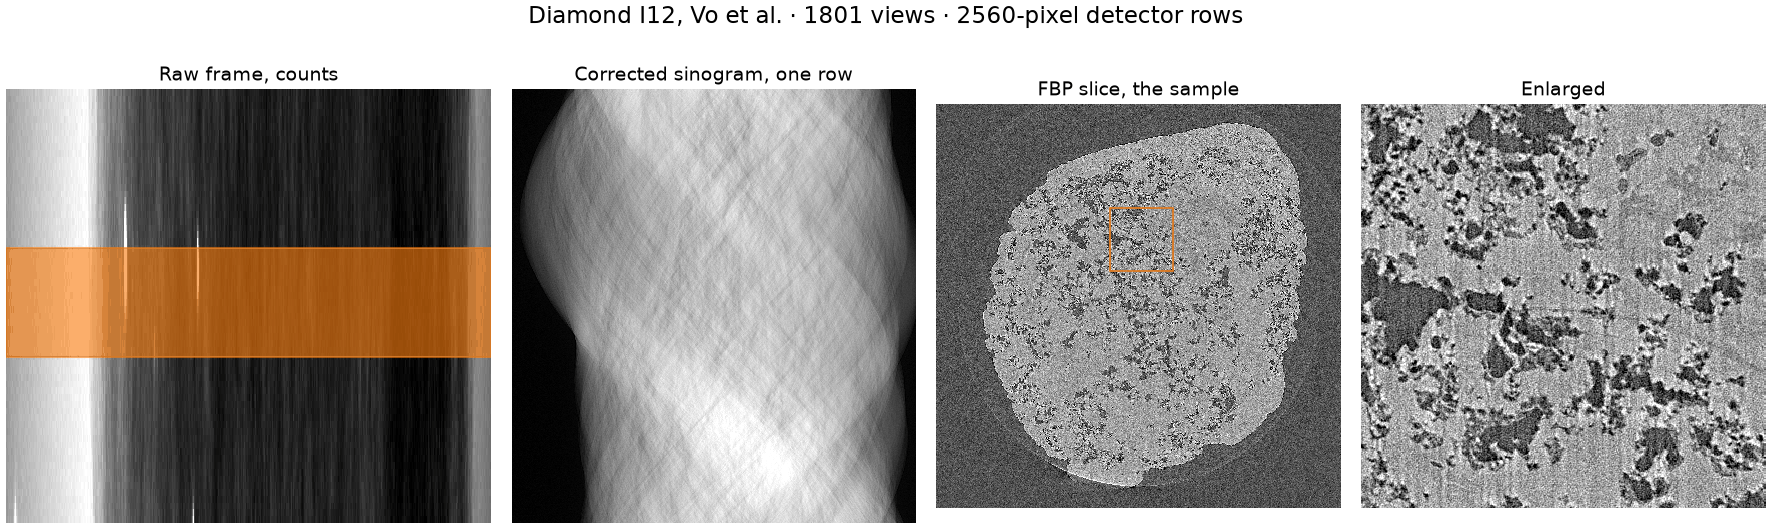
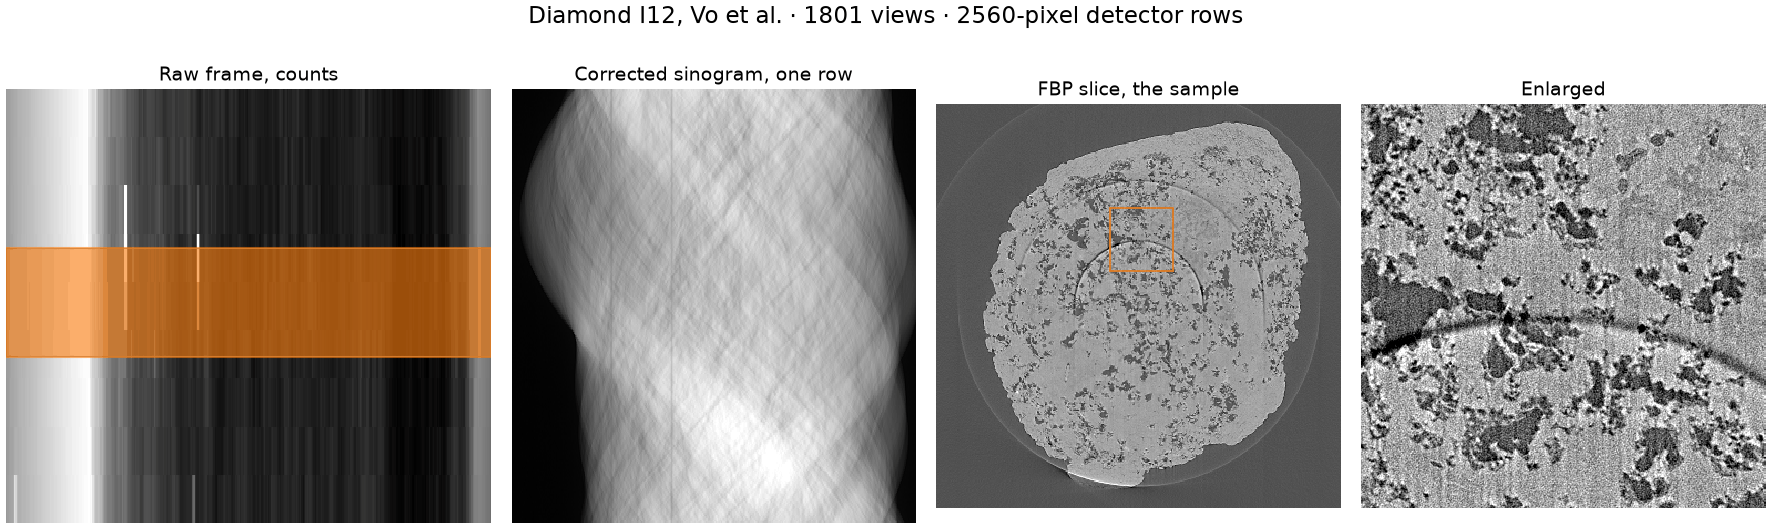
Regenerate the I12 and beamline figures with Rings and averaged panels
Gallery panels drawn smaller than their pixel count now average blocks
of pixels instead of keeping every n-th one, which kept per-pixel noise
and made full slices look grainy. The diamond-rings, i12-first-slice and
beamline-first-slices figures are regenerated with Rings(); the I12 and
denoiser examples measure the center with tj.align(scan, fit="center").
The gallery caption gives the new correlations and says the large half
ring from one detector column remains, fainter.

Changed region(s): [[0.528, 0.1815, 1.0, 0.9679]]

diff --git a/examples/gallery/diamond_rings.py b/examples/gallery/diamond_rings.py
@@ -4,7 +4,7 @@ Diamond I12 (Vo et al., Zenodo 3339629): 1801 parallel-beam views of a rock
 sample at 54 keV, full-resolution detector rows. A miscalibrated detector
 column whose response varies with intensity leaves a large ring, and pixels
 near the rotation axis with small constant offsets leave tight rings round it.
-``Rings()`` fits both detector errors. The authors' own
+``Rings()`` removes the tight rings and leaves the large one fainter. The authors' own
 reconstruction (Savu) is shown at the same slice, with each slice's
 correlation with it inside the sample.
 
@@ -19,7 +19,7 @@ from __future__ import annotations
 import argparse
 from pathlib import Path
 
-from _common import save, style
+from _common import save, shrunk, style
 import matplotlib.pyplot as plt
 import numpy as np
 import tifffile
@@ -37,7 +37,7 @@ def main() -> None:
     args = parser.parse_args()
 
     frames = tj.load_frames(args.raw)
-    plain = tj.align(frames.corrected(), method="opposite-views").scan
+    plain = tj.align(frames.corrected(), fit="center").scan
     cleaned = plain.corrected(Rings())
     reference = tifffile.imread(args.reference).astype(np.float32)
     n = reference.shape[0]
@@ -63,7 +63,9 @@ def main() -> None:
     fig, axes = plt.subplots(2, 3, figsize=(9.0, 6.5), gridspec_kw={"height_ratios": (1, 1)})
     for (title, image), (top_ax, bottom_ax) in zip(slices.items(), axes.T, strict=True):
         low, high = np.percentile(image[zoom], (1, 99.5))
-        top_ax.imshow(image, origin="lower", vmin=low, vmax=high)
+        top_ax.imshow(
+            shrunk(image, 400), origin="lower", vmin=low, vmax=high, extent=(-0.5, n - 0.5) * 2
+        )
         top_ax.add_patch(
             plt.Rectangle(
                 (zoom[0].start, zoom[1].start),
@@ -80,7 +82,7 @@ def main() -> None:
             ax.set_axis_off()
     fig.suptitle(
         f"Diamond I12, raw counts to slice: {frames.counts.shape[0]} views, "
-        f"{n} x {n} pixels, center found by tj.align(method='opposite-views')",
+        f"{n} x {n} pixels, center measured by tj.align(scan, fit='center')",
         y=0.995,
     )
     fig.tight_layout()

diff --git a/examples/gallery/_common.py b/examples/gallery/_common.py
@@ -70,9 +70,36 @@ def style() -> None:
     )
 
 
-def panel(ax: Any, image: np.ndarray, title: str, vmin: float, vmax: float) -> None:
-    """Show a slice ``image`` (rows, columns) without axes."""
-    ax.imshow(np.asarray(image), origin="lower", vmin=vmin, vmax=vmax)
+def shrunk(image: np.ndarray, pixels: int) -> np.ndarray:
+    """Average ``image`` over square blocks so that it is at most ``pixels`` across.
+
+    A slice drawn smaller than its pixel count must be averaged, not decimated:
+    keeping every n-th pixel keeps the per-pixel noise at a fraction of the size.
+    The last rows and columns that do not fill a block are dropped.
+    """
+    image = np.asarray(image, np.float32)
+    k = -(-max(image.shape) // pixels)
+    if k == 1:
+        return image
+    rows, columns = (side // k * k for side in image.shape)
+    return image[:rows, :columns].reshape(rows // k, k, columns // k, k).mean(axis=(1, 3))
+
+
+def panel(
+    ax: Any, image: np.ndarray, title: str, vmin: float, vmax: float, *, pixels: int = 400
+) -> None:
+    """Show a slice ``image`` (rows, columns) without axes, averaged to ``pixels`` across.
+
+    Axis coordinates stay in the pixels of ``image``, so overlays need no scaling.
+    """
+    rows, columns = np.shape(image)
+    ax.imshow(
+        shrunk(image, pixels),
+        origin="lower",
+        vmin=vmin,
+        vmax=vmax,
+        extent=(-0.5, columns - 0.5, -0.5, rows - 0.5),
+    )
     ax.set_title(title)
     ax.set_axis_off()
 

diff --git a/examples/gallery/first_slice.py b/examples/gallery/first_slice.py
@@ -9,7 +9,7 @@ The script follows the quickstart on an NXtomo file of raw counts with its
 flats and darks: ``tj.load_frames``, a crop to 16 detector rows,
 ``corrected(Rings())`` for the rings, then FBP.
 The rotation center is the recorded one given by ``--center`` (in pixels),
-or without it ``tj.align(method="opposite-views")`` finds it.
+or without it ``tj.align(scan, fit="center")`` measures it.
 The figure shows one raw frame with the cropped rows marked, the corrected
 sinogram of the middle row and its slice at the detector's resolution, with
 one enlarged region. Diamond I13 scan 159815 is 3001 views over a full turn
@@ -61,7 +61,7 @@ def main() -> None:
     raw = np.asarray(frames.selected([0]).counts, np.float32)[0]
     scan = frames.cropped(rows, slice(None)).corrected(Rings())
     if args.center is None:
-        scan = tj.align(scan, method="opposite-views").scan
+        scan = tj.align(scan, fit="center").scan
     print("detector center:", scan.detector.center)
     middle = (rows.stop - rows.start) // 2
     sinogram = np.asarray(scan.projections, np.float32)[:, middle]

diff --git a/examples/gallery/geometry_montage.py b/examples/gallery/geometry_montage.py
@@ -25,7 +25,7 @@ import argparse
 from pathlib import Path
 import sys
 
-from _common import save, style
+from _common import save, shrunk, style
 from _k11 import load as load_k11, plane
 from lab_cone_slices import central_slice
 import matplotlib.pyplot as plt
@@ -86,7 +86,7 @@ def main() -> None:
     for ax, (title, image) in zip(axes.ravel(), slices(args.data).items(), strict=True):
         crop = object_crop(image)
         low, high = np.percentile(crop, (0.5, 99.7))
-        ax.imshow(crop, origin="lower", vmin=low, vmax=high)
+        ax.imshow(shrunk(crop, 560), origin="lower", vmin=low, vmax=high)
         ax.set_title(f"{title}\n{crop.shape[0]} pixels across")
         ax.set_axis_off()
     fig.tight_layout()

diff --git a/examples/train_denoiser.py b/examples/train_denoiser.py
@@ -109,7 +109,7 @@ def prepare(path: Path, *, binning: int, every: int, center_px: float | None) ->
         raise ValueError("This slice-wise example requires an axial parallel-beam scan")
     if center_px is None:
         # Geometry calibration only; denoiser optimization never sees test views.
-        scan = tj.align(scan, method="opposite-views").scan
+        scan = tj.align(scan, fit="center").scan
     else:
         # A native-pixel offset; binned pixels are ``binning`` native ones wide.
         center = center_px * scan.detector.du / binning

diff --git a/examples/gallery/beamline_first_slices.py b/examples/gallery/beamline_first_slices.py
@@ -85,7 +85,7 @@ def slices(data: Path) -> dict[str, np.ndarray]:
 def figure(images: dict[str, np.ndarray], output: Path) -> None:
     """Each slice whole above its enlarged region, sharing that slice's gray range."""
     style()
-    fig, axes = plt.subplots(2, len(images), figsize=(13, 5.6))
+    fig, axes = plt.subplots(2, len(images), figsize=(13, 6.1))
     for (name, image), (whole, zoom) in zip(images.items(), axes.T, strict=True):
         low, high = np.percentile(image, (0.5, 99.5))
         row, column, side = CROPS[name]

diff --git a/docs/gallery.md b/docs/gallery.md
@@ -57,7 +57,7 @@ uv run python examples/gallery/chip_laminography.py DATA chip-laminography.png
 
 ![Diamond I12 slice reconstructed without and with ring correction beside the authors' reconstruction, with close-ups of the rotation axis.](../images/gallery/diamond-rings.png)
 
-Diamond I12 scan of Vo et al. (Zenodo 3339629, 1801 views on a 2560-pixel detector) from raw counts. `tj.align(method="opposite-views")` locates the rotation axis. The script below removes rings with `Rings()`. The figure above predates that change and shows correlation 0.863 without correction and 0.870 with the removed `Stripes` step against the authors' Savu slice.
+Diamond I12 scan of Vo et al. (Zenodo 3339629, 1801 views on a 2560-pixel detector) from raw counts. `tj.align(scan, fit="center")` measures the rotation axis and `Rings()` corrects the detector: the tight rings round the axis disappear, the large half ring left by one detector column remains but fainter, and correlation with the authors' Savu slice inside the sample rises from 0.861 to 0.865.
 
 ```bash
 uv run python examples/gallery/diamond_rings.py full_rows1048-1111.nxs Before_correction/rec_01050.tif diamond-rings.png
